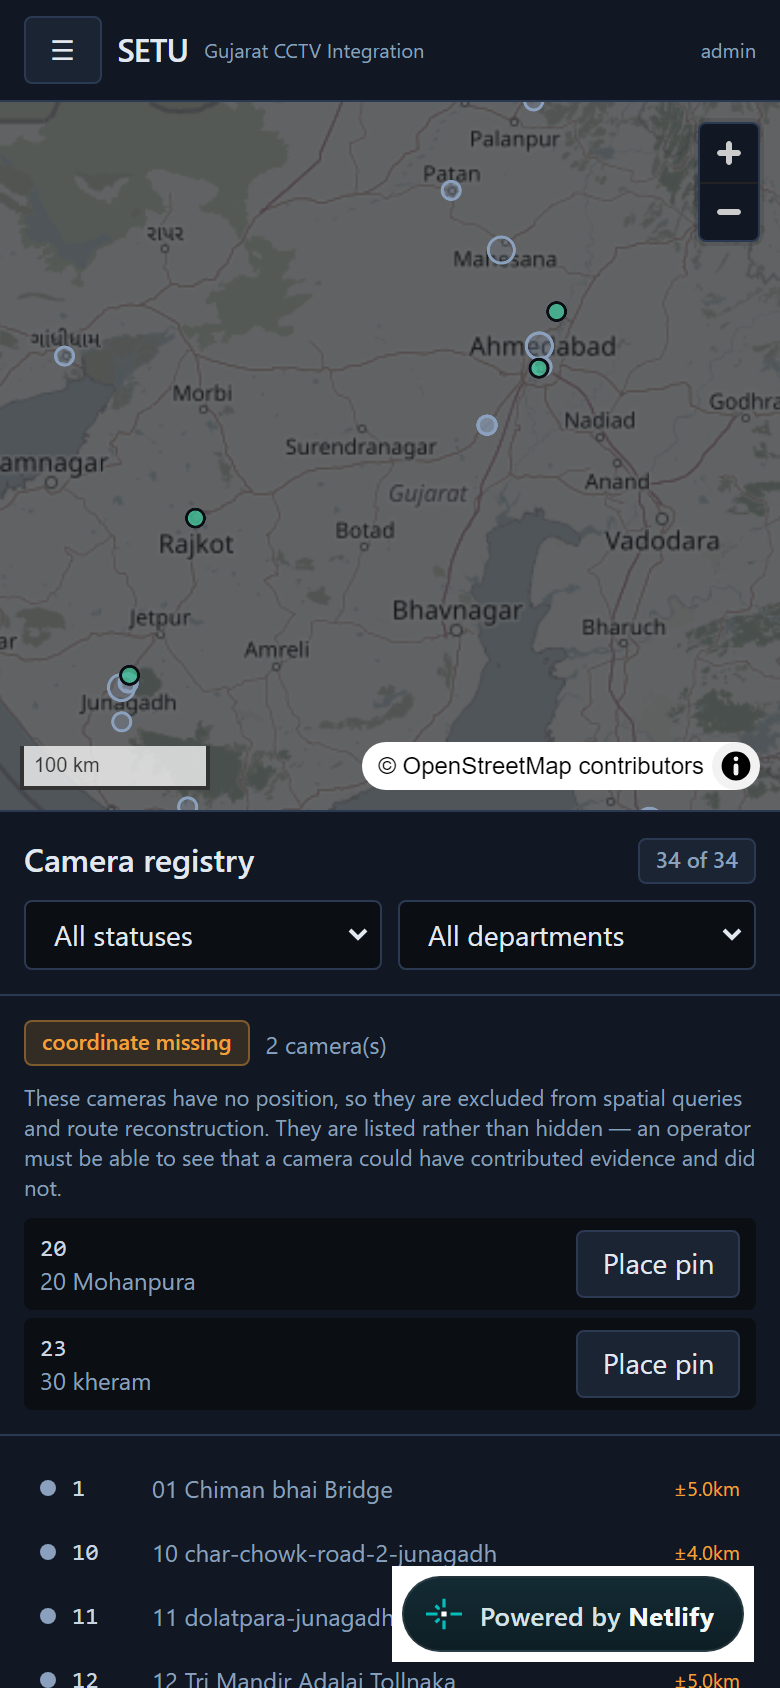
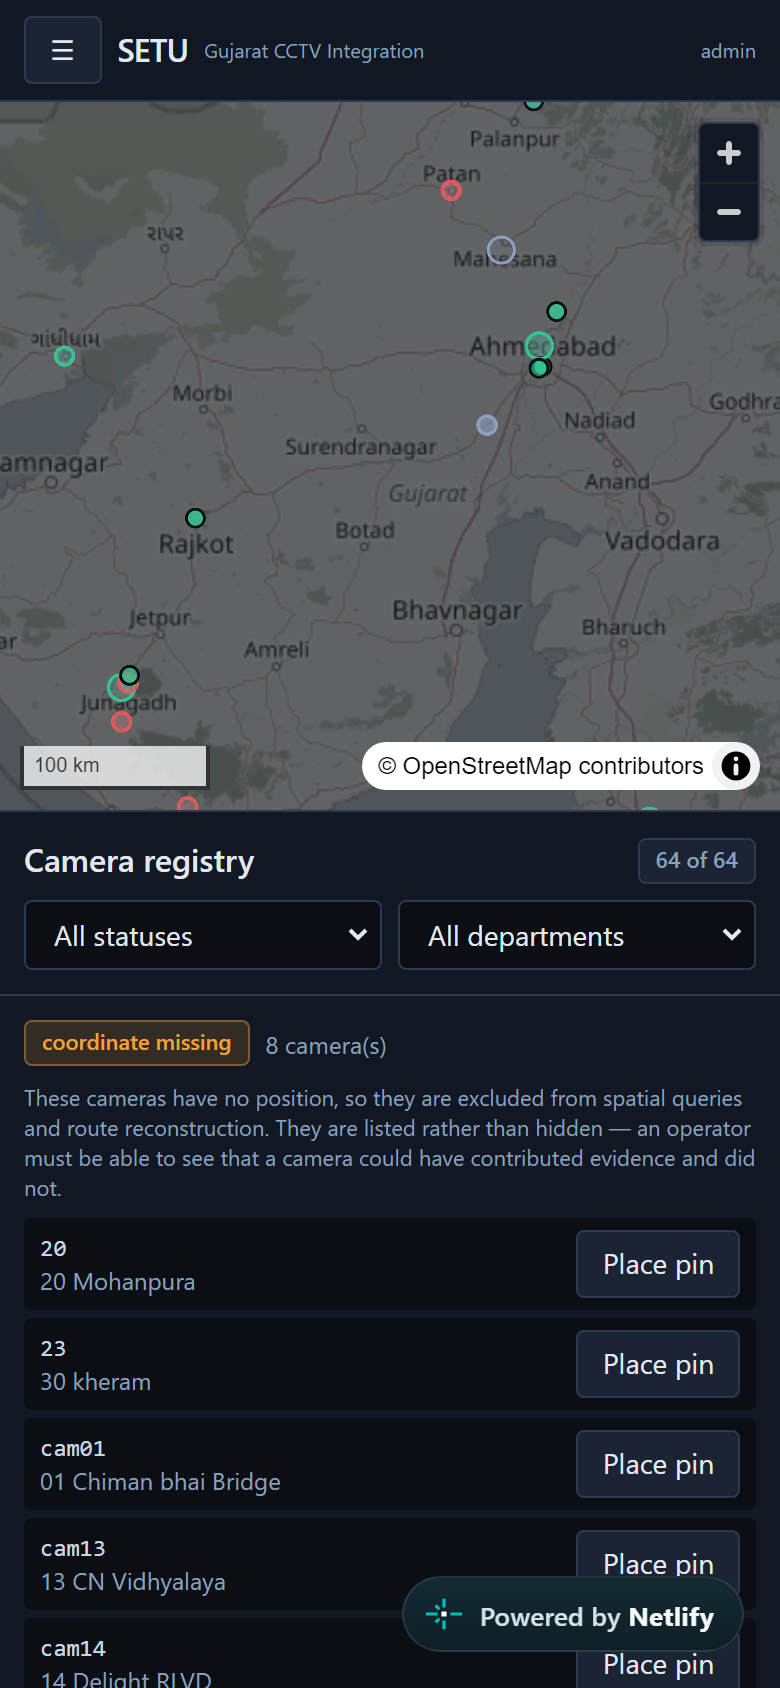
Attack the two limitations that were called permanent, and record what held
Both were stated in the README as things that would not improve. One of them moved.

**Intrusion detection now runs on the government feed.** The bonus feature's only
zone was on a REPLAY harness camera, so the capability rested entirely on simulated
attribution. `cam22` produced a real plate detection at (614, 941) in its own 1920x1080
frame, so a zone was drawn over that camera's near carriageway and a rescan raised a
genuine `zone_intrusion` alert on a live government camera, with a crop and a real
coordinate behind it. Six zone alerts now stand beside the six watchlist ones.

**Department attribution is confirmed unavailable, from three sources rather than
one.** `/api/ingest` returns 1,373 bytes and the keys `id` and `name`. The estate's own
control-room page fetches a different path, `cameras.json`, which raised the real
possibility that we had been reading the wrong endpoint all along -- it returns the
same 1,373 bytes and the same two keys. The dashboard HTML contains no occurrence of
`department`, `owner`, `agency`, `GSRTC`, `Panchayat`, `Municipal`, `Health` or
`Police`. So 29 of 30 cameras keep the default, and the README says why rather than
inventing the one field a department-scoped access-control model exists to protect.

**Upscaling crops before OCR does nothing at all.** Measured at 1x, 2x, 3x and 4x over
40 frames of the own-feed clip: identical output at every scale -- 8 valid reads, 5
[…]

diff --git a/README.md b/README.md
@@ -123,6 +123,22 @@ earlier pass on cam07 read `GJ3ZAG0344` from a genuine Gujarat plate whose crop 
 `GJ32AG0344` — a real detection, one character wrong. The estate does occasionally
 present a legible plate. It does not do so reliably enough to trace a vehicle.
 
+**The estate is genuinely heterogeneous, and the registry now proves it.** The
+catalogue publishes no codec, resolution or frame rate — it returns 1,373 bytes and two
+keys, `id` and `name` — so every property below was measured from the decoded stream and
+written back to the registry:
+
+| Property | Observed across 30 government cameras |
+|---|---|
+| Codec | **24 × H.264, 6 × H.265** |
+| Resolution | 2560×1440, 1920×1080, 1280×960, 1280×720, 960×576 |
+| Measured frame rate | 15.0 – 30.1 fps, per camera |
+| Status after probing | 26 ACTIVE, 4 UNREACHABLE |
+
+The organiser's checklist asks that a pipeline handle mixed H.264/H.265 and mixed
+resolutions. That is now a property of the registry a reviewer can read, rather than a
+claim in a document.
+
 Declared frame rate remains unreliable, as §2.2 warns: **5 of the 8 cameras that both
 declare a rate and delivered frames diverge by more than 5%** — camera 15 declares
 12.5 fps and delivers 5.38. Another 17 delivered frames while declaring nothing at all.
@@ -448,10 +464,15 @@ submission.
    resolution invalidates its zones — the frame size a zone was drawn against is stored
    with it so that can be detected rather than silently mis-evaluated. Turning a CCTV
    frame into ground coordinates needs camera calibration this estate does not publish.
-8. **The deployed instance now carries one government-feed detection, and it is a
-   false positive.** A full 30-camera sweep on 2026-09-02 wrote exactly one record to
-   the deployed database, and it is a camera's own on-screen caption rather than a
-   vehicle. It is left in place: deleting a real output because it is unflattering
+8. **The deployed instance carries three government-feed detections; one is a real
+   number plate and two are not.** Sweeps on 2026-09-02 wrote three records, and all
+   three crops were opened and looked at: `cam03` is the camera's own on-screen caption,
+   `cam02` is a dark building facade with no plate in it, and **`cam22` is a genuine
+   yellow commercial plate** read as `AZ9072`. None satisfies Indian plate grammar, so
+   none becomes a registration — which on `cam22` is the filter working correctly on a
+   real plate rather than on noise. The plate is two-line and our recogniser reads one
+   line, so even a sharper image of it would not produce a complete registration; see
+   DISCOVERY finding 20. All three are left in place. It is left in place: deleting a real output because it is unflattering
    would make the error rate look better than it is, and the crop is committed so
    anyone can see what happened. Note this is the same class of record as the twelve
    `REPLAY-` misreads already in the database — of 21 detections, 8 are grammar-valid
@@ -492,6 +513,8 @@ submission.
    exactly one record, the caption described in limitation 8 — so route reconstruction,
    watchlist matching and speed flagging all still rest on own-feed and `REPLAY-`
    material. Intrusion zones are the exception: they need a vehicle box rather than a
-   readable plate, and a rescan over stored history raised **5 zone alerts** alongside
-   the 6 watchlist ones. The console labels the source of every hop and alert so this is
+   readable plate. A zone drawn over the near carriageway of `cam22` — a live
+   government camera — raises a real `zone_intrusion` alert on that camera's own
+   detection, so the bonus feature is demonstrated on the government feed and not only
+   on the replay harness. Six zone alerts stand alongside the six watchlist ones. The console labels the source of every hop and alert so this is
    visible rather than assumed. See [`docs/DEPLOYMENT.md`](docs/DEPLOYMENT.md) §4.

diff --git a/docs/DISCOVERY.md b/docs/DISCOVERY.md
@@ -520,6 +520,63 @@ One check in this session was also wrong in the other direction and is worth adm
 `34 dhanori` was first flagged as 267 km out of place, because the reference city used
 for the comparison was picked badly. It is 14 km from Navsari and correct.
 
+## Finding 20 - three ways the plate ceiling was attacked, and what each returned
+
+**2026-09-02.** After the estate was fully onboarded, the remaining gap was the one
+that matters most: 3,292 frames across 26 live cameras and **zero** grammar-valid
+registrations. Three separate attempts to move that number, each measured rather than
+argued.
+
+**Upscaling the crop before OCR: a no-op.** The detector can hand the recogniser a
+crop 60 px wide, and `fast_plate_ocr` resizes internally, so a better interpolation
+first might plausibly help. Run over 40 frames of the own-feed clip at 1x, 2x, 3x and
+4x cubic upscale, the results are not merely similar, they are **identical**: 8
+grammar-valid reads, 5 distinct plates, the same five strings, `KA25AB1542` present in
+all four. The library normalises the input itself and nothing upstream of that
+survives. Not shipped, because there is nothing to ship.
+
+**Tiling: rejected earlier, see Finding 18.** More boxes, no more plates, and it lost
+the correct registration.
+
+**The one real plate this estate has produced is two-line.** `cam22` yielded a genuine
+yellow commercial plate, enlarged and inspected: the lower row reads roughly `AZ 90 2`
+and the upper row is an unrecoverable smear. Our recogniser reads a single line of up
+to ten characters, so a two-row plate cannot form a complete registration even when
+legible -- the read returns one row and the Indian grammar filter correctly rejects it.
+This is worth recording as a genuine capability gap rather than a resolution problem,
+but building two-line handling now would be building against a single illegible
+example, which is the mistake this project keeps declining to make.
+
+The conclusion after three attempts is unchanged and now better evidenced: what is
+missing is pixels on the plate. `AZ9072` is the useful datum, because it separates the
+two failure modes we keep having to explain. The detector is not merely firing on
+signage; it found a real plate. The plate was not readable.
+
+## Finding 21 - the thin catalogue is the estate's, not our parsing
+
+**2026-09-02.** Before writing that the estate publishes no department attribution,
+three sources were checked rather than one.
+
+`GET /api/ingest` returns **1,373 bytes for thirty cameras**, and the union of keys
+across all of them is exactly `["id", "name"]`. The estate's own control-room page
+fetches a different path, `cameras.json`, which raised the possibility that the richer
+document existed somewhere and we were reading the wrong endpoint: it returns the same
+1,373 bytes and the same two keys. The dashboard HTML itself contains no occurrence of
+`department`, `dept`, `owner`, `agency`, `GSRTC`, `Panchayat`, `Municipal`, `Health` or
+`Police`.
+
+So the integration guide's promise -- "every camera with its id, location, codec, live
+status, stream properties, and all three URLs" -- is not met by anything the estate
+serves, and the pre-submission checklist item "camera list and per-camera properties
+are read from `/api/ingest`" cannot be satisfied by any participant. Raised with the
+organisers in `docs/SUPPORT_QUERY.md`.
+
+The consequence for us is stated rather than worked around: department attribution is
+unavailable for 29 of 30 cameras, and inventing it would mean fabricating the single
+field a department-scoped access-control model exists to protect. Per-camera codec,
+resolution and frame rate *are* recoverable, because they can be measured from the
+decoded stream, and now are.
+
 ## Local evaluation hardware
 
 Python 3.12.5, Docker 29.7.2, Node 20.14, **NVIDIA RTX 4050 Laptop, 6 GB VRAM**.
